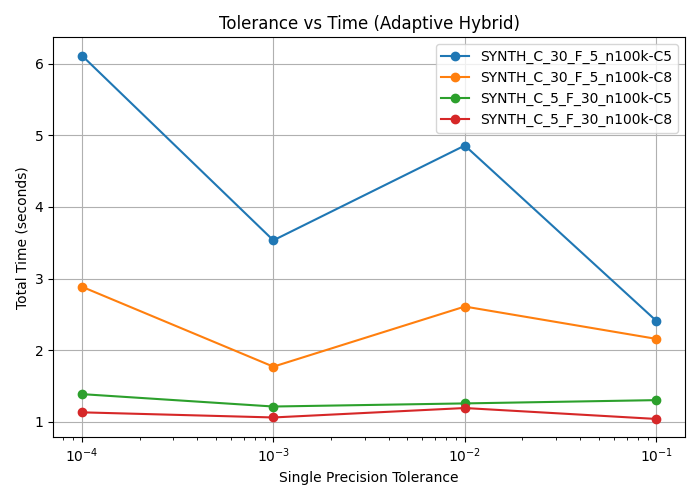
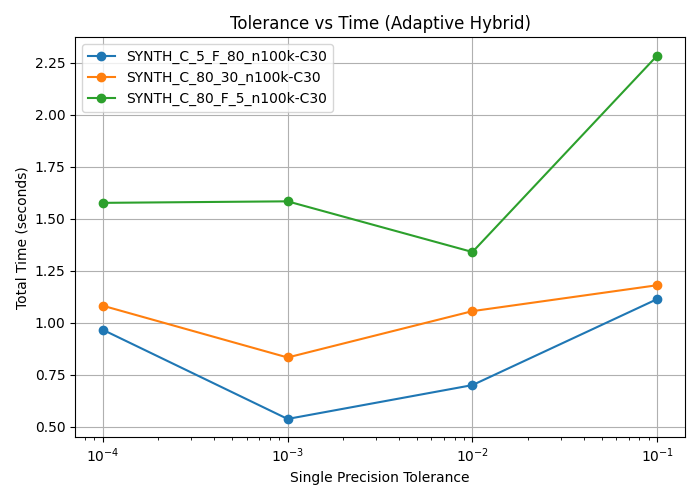
feat: new graphs for the datasets

diff --git a/main.py b/main.py
@@ -44,13 +44,13 @@ def load_susy(n_rows=1_000_000):
 # CONFIGURATION PARAMETERS 
 dataset_sizes = [100000]
 # for the cluster size we are varying this for all datasets
-n_clusters_list = [5, 30]
+n_clusters_list = [30]
 
 max_iter = 300
 
 # Understand what the experiment parameters mean
 # Have the cap grid based on a percentage of the max iteration
-tol_fixed_A = 1e-16
+tol_fixed_A = 0
 # varying the capmax_percentage
 max_iter_A = 300
     # start time 
@@ -74,7 +74,7 @@ tol_single_grid = [1e-1, 1e-2, 1e-3, 1e-4]
 # tol_scale_C = 100 * tol_fixed_C
 # tol_single_grid = [tol_scale_C]
 
-n_repeats = 3
+n_repeats = 1
 rng_global = np.random.default_rng(0)
 
 # Real-dataset
@@ -178,7 +178,6 @@ def plot_hybrid_cap_vs_inertia(results_path = "Results/hybrid_kmeans_results_exp
     
     plt.title("Cap vs Intertia (Adaptive Hybrid)")
     plt.xlabel("Cap (Single Precision Iteration Cap)")
-    
 
     plt.ylabel("Final Inertia")
     plt.grid(True)
@@ -235,6 +234,7 @@ def plot_tolerance_vs_time(results_path="Results/hybrid_kmeans_results_expB.csv"
         plt.plot(group_sorted["tolerance_single"], group_sorted["Time"], marker='o', label=f"{ds}-C{k}")
 
     plt.title("Tolerance vs Time (Adaptive Hybrid)")
+    # plt.ylim(0.99, 1.01)
     plt.xlabel("Single Precision Tolerance")
     plt.xscale('log')
     plt.ylabel("Total Time (seconds)")
@@ -256,7 +256,7 @@ def plot_tolerance_vs_inertia(results_path="Results/hybrid_kmeans_results_expB.c
 
     plt.figure(figsize=(7, 5))
     for (ds, k ), group in df_grouped.groupby(["DatasetName", "NumClusters"]):
-        base_inertia = df[(df["Suite"] == "Double") & (df["DatasetName"] == ds) & (df["NumClusters"] == k) ]["Inertia"].values
+        base_inertia = df[(df["Suite"] == "Double") & (df["DatasetName"] == ds) & (df["NumClusters"] == k) ]["Inertia"].mean()
         
         group_sorted = group.sort_values("tolerance_single")
         group_sorted["Inertia"] = group_sorted["Inertia"] / base_inertia
@@ -264,9 +264,11 @@ def plot_tolerance_vs_inertia(results_path="Results/hybrid_kmeans_results_expB.c
         plt.plot(group_sorted["tolerance_single"], group_sorted["Inertia"], marker='o', label=f"{ds}-C{k}")
 
     plt.title("Tolerance vs Inertia (Adaptive Hybrid)")
+    plt.ylim(0.9999, 1.0001)
     plt.xlabel("Single Precision Tolerance")
     plt.xscale('log')
     plt.ylabel("Final Inertia")
+
     plt.grid(True)
     plt.legend()
     plt.tight_layout()
@@ -370,6 +372,10 @@ def run_one_dataset(ds_name: str, X_full: np.ndarray, y_full, rows_A, rows_B):
 
                 print(f"→ n={n_samples:,} F={n_features} C={n_clusters}  "f"({ds_name})", flush=True)
                 print(f"The total number of features is : F={n_features}")
+                
+                np.random.seed(0)
+                # random_indices = np.random.choice(X_cur.shape[0], size=n_clusters, replace=False)
+                # initial_centers = X_cur[random_indices].copy()
 
                 init_kmeans = KMeans(n_clusters=n_clusters, init='random', n_init=1, random_state=0,  max_iter = 1)
                 initial_fit = init_kmeans.fit(X_cur)
@@ -378,15 +384,18 @@ def run_one_dataset(ds_name: str, X_full: np.ndarray, y_full, rows_A, rows_B):
                 if RUN_EXPERIMENT_A:
                     for rep in range(n_repeats):
 
+
                     # Full double precision run
                         centers_double, labels_double, iters_double_tot, iters_single_tot, elapsed, mem_MB_double, ari,  dbi, inertia = run_full_double(
                         X_cur, initial_centers, n_clusters, max_iter, tol_fixed_A, y_true_cur
                         )
 
-                        rows_A.append([ds_name, n_samples, n_clusters,"A", 0, 1e-16,  iters_single_tot, iters_double_tot, "Double",  elapsed, mem_MB_double, 
+                        rows_A.append([ds_name, n_samples, n_clusters,"A", 0, 0,  iters_single_tot, iters_double_tot, "Double",  elapsed, mem_MB_double, 
                                         ari,  dbi, inertia])
                                  
                         print(f" [Double] {rows_A}", flush=True) 
+                        print(f"The total number of features is : F={n_features}")
+                
 
                     option = "A"
                     for cap in cap_grid:
@@ -398,11 +407,15 @@ def run_one_dataset(ds_name: str, X_full: np.ndarray, y_full, rows_A, rows_B):
                             )
                         
                             print(f"Cap: {cap}, Iter Single: {iters_single}, Iter Double: {iters_double}, Toal: {iters_single + iters_double}")
+                            print(f"The total number of features is : F={n_features}")
+                
                     
                             rows_A.append([ds_name, n_samples, n_clusters, "A", cap, tol_fixed_A, iters_single, iters_double, "AdaptiveHybrid", elapsed_hybrid, mem_MB_hybrid,
                                         ari_hybrid, dbi_hybrid, inertia_hybrid ])
                         
                             print(f" [Hybrid] {rows_A}", flush=True) 
+                            print(f"The total number of features is : F={n_features}")
+                
                         # plot clusters
                         # if rep == 0:
                         #     X_vis, centers_vis = pca_2d_view(X_cur, centers_hybrid)
@@ -421,6 +434,8 @@ def run_one_dataset(ds_name: str, X_full: np.ndarray, y_full, rows_A, rows_B):
                             rows_B.append([ ds_name, n_samples, n_clusters, "B", tol_double_B,  iters_single_tot, iters_double_tot, "Double", elapsed, mem_MB_double,
                                         ari, dbi, inertia])
                             print(f"[Double Baseline - Exp B] tol={tol_double_B} | iter_double={iters_double_tot}")
+                            print(f"The total number of features is : F={n_features}")
+                
 
                         option = "B"
                         for tol_s in tol_single_grid:
@@ -431,11 +446,15 @@ def run_one_dataset(ds_name: str, X_full: np.ndarray, y_full, rows_A, rows_B):
                                 )
 
                                 print(f"Tol_single: {tol_s}, Iter Single: {iters_single}, Iter Double: {iters_double}, Total: {iters_single + iters_double}")
+                                print(f"The total number of features is : F={n_features}")
+                
 
                                 rows_B.append([ds_name, n_samples, n_clusters, "B", tol_s,  iters_single, iters_double, "AdaptiveHybrid", elapsed_hybrid, mem_MB_hybrid,
                                         ari_hybrid, dbi_hybrid, inertia_hybrid])
                             
                                 print(f" [Hybrid] {rows_B}", flush=True) 
+                                print(f"The total number of features is : F={n_features}")
+                
 
                             # plot clusters
                             # if rep == 0:
@@ -449,8 +468,9 @@ all_rows = []
 
 synth_specs = [
     # number of samples; number of features, number of clusters, random seeds
-    ("SYNTH_C_5_F_30_n100k", 100_000, 30,  5, 0),
-    ("SYNTH_C_30_F_5_n100k", 100_000, 5, 30, 1),
+    ("SYNTH_C_5_F_80_n100k", 1000_000, 80,  5, 0),
+    ("SYNTH_C_80_F_5_n100k", 1000_000, 5, 80, 1),
+    ("SYNTH_C_80_30_n100k", 1000_000, 30, 80, 1)
 ]
 
 rows_A = []
